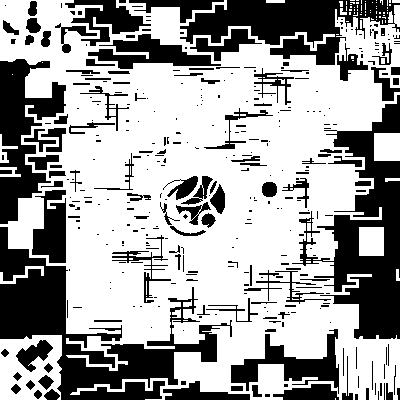
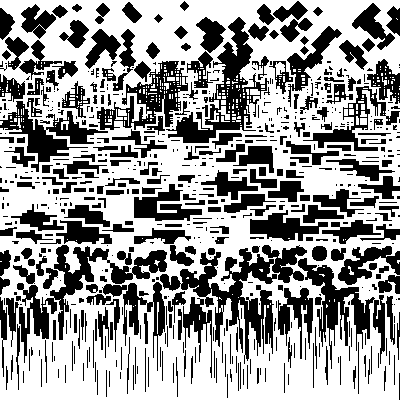
map stratified

diff --git a/map.js b/map.js
@@ -71,6 +71,17 @@ exports.Map.prototype = {
   		}
   	}
 	},
+  randomTerrain2: function randomTerrain2(numb, X, Y, width, height, sizeX, dsizeX, sizeY, dsizeY, colour, dcolour) {
+    var TSize = width*height;
+    var num = Math.floor(TSize/numb);
+    for (var n = 0; n < num; n++) {
+      var PosX = this.Random(X,X+width);
+      var PosY = this.Random(Y,Y+height);
+      var SizeX = this.Random(sizeX, sizeX+dsizeX);
+      var SizeY = this.Random(sizeY, sizeY+dsizeY);
+      this.makeTerrainInBounds2(0, 0, ret, ret, PosX, PosY, SizeX, SizeY, colour, dcolour);
+    }
+  },
   makeTerrain: function makeTerrain(posX, posY, sizeX, sizeY, colourMin, colourMax) {
     for (var z = 0; z < sizeX;z++){
       for (var i = 0; i < sizeY; i++){
@@ -101,6 +112,32 @@ exports.Map.prototype = {
         for (var i = 0; i < SizeY; i++){
           var Colour = Math.floor(Math.random()*(colourMax-colourMin+1)+colourMin);
           this.map[PosX+PosY*ret+z+i*ret] = Colour;
+        }
+      }
+    }
+  },
+  makeTerrainInBounds2: function makeTerrainInBounds2(x, y, width, height, posX, posY, sizeX, sizeY, colour, dcolour) {
+    if ((posX <= x+width)&&(posY <= y+height)&&(posX+sizeX > x)&&(posY+sizeY > y)) {
+      var PosX = posX;
+      var PosY = posY;
+      var SizeX = sizeX;
+      var SizeY = sizeY;
+      if (posX < x) {
+        PosX = x;
+      }
+      if (posY < y) {
+        PosY = y;
+      }
+      if (PosX+sizeX > x+width) {
+        SizeX = x+width-PosX;
+      }
+      if (PosY+sizeY > y+height) {
+        SizeY = y+height-PosY;
+      }
+      for (var j = 0; j < SizeX; j++){
+        for (var i = 0; i < SizeY; i++){
+          var Colour = this.Random(colour,colour+dcolour);
+          this.map[PosX+PosY*ret+j+i*ret] = Colour;
         }
       }
     }
@@ -141,6 +178,23 @@ exports.Map.prototype = {
       }
     }
   },
+  circle2: function circle2(numb, X, Y, width, height, radius, dradius, colour, dcolour) {
+    var TSize = width*height;
+    var num = Math.floor(TSize/numb);
+    for (var n = 0; n < num; n++) {
+      var PosX = this.Random(X,X+width);
+      var PosY = this.Random(Y,Y+height);
+      var Radius = this.Random(radius,radius+dradius);
+      for (var j = 0; j < 2*Radius; j++){
+        for (var i = 0; i < 2*Radius; i++){
+          if(Math.sqrt((j-Radius)*(j-Radius)+(i-Radius)*(i-Radius)) < Radius){
+            var Colour = this.Random(colour,colour+dcolour);
+            this.map[PosX+PosY*ret+j+i*ret] = Colour;
+          }
+        }
+      }
+    }
+  },
   diamond: function diamond(numb, posXMin, posXMax, posYMin, posYMax, sizeXMin, sizeXMax, sizeYMin, sizeYMax, colourMin, colourMax) {
     var TSize = (posXMax - posXMin)*(posYMax - posYMin);
     var num = Math.floor(TSize/numb);
@@ -155,6 +209,25 @@ exports.Map.prototype = {
           if(ecc*Math.abs(z-sizeX/2) + Math.abs(i-sizeY/2) < sizeY/2){
             var colour = this.Random(colourMax,colourMin);
             this.map[PosX+PosY*ret+z+i*ret] = colour;
+          }
+        }
+      }
+    }
+  },
+  diamond2: function diamond2(numb, X, Y, width, height, sizeX, dsizeX, sizeY, dsizeY, colour, dcolour) {
+    var TSize = width*height;
+    var num = Math.floor(TSize/numb);
+    for (var n = 0; n < num; n++) {
+      var PosX = this.Random(X,X+width);
+      var PosY = this.Random(Y,Y+height);
+      var DsizeX = this.Random(sizeX, sizeX+dsizeX);
+      var DsizeY = this.Random(sizeY, sizeY+dsizeY);
+      for (var j = 0; j < DsizeX; j++){
+        for (var i = 0; i < DsizeY; i++){
+          var ecc = DsizeY/DsizeX;
+          if(ecc*Math.abs(j-DsizeX/2) + Math.abs(i-DsizeY/2) < DsizeY/2){
+            var Colour = this.Random(colour,colour+dcolour);
+            this.map[PosX+PosY*ret+j+i*ret] = Colour;
           }
         }
       }
@@ -289,99 +362,6 @@ exports.Map.prototype = {
       var direction = Math.floor(Math.random()*4);
     }
   },
-	randomWorms: function randomWorms(numb, segMin, segMax, posXMin, posXMax, posYMin, posYMax, lengthXMin, lengthXMax, lengthYMin, lengthYMax, thickX, thickY, colourMin, colourMax) {
-	var TSize = (posXMax - posXMin)*(posYMax - posYMin);
-	var num = Math.floor(TSize/numb);
-	for (var j = 0; j < num; j++) {
-		var startX = Math.floor(Math.random()*(posXMax-posXMin+1)+posXMin);
-		var startY = Math.floor(Math.random()*(posYMax-posYMin+1)+posYMin);
-		var seg = Math.floor(Math.random()*(segMax-segMin+1)+segMin);
-		this.worm(seg, posXMin, posXMax, posYMin, posYMax, startX, startY, lengthXMin, lengthXMax, lengthYMin, lengthYMax, thickX, thickY, colourMin, colourMax);
-	}
-  },
-  worm: function worm(seg, posXMin, posXMax, posYMin, posYMax, startX, startY, lengthXMin, lengthXMax, lengthYMin, lengthYMax, thickX, thickY, colourMin, colourMax) {
-  	var posX = startX;
-  	var posY = startY;
-  	var lastD = Math.floor(Math.random()*4);
-  	var bends = 0;
-  	for (var i = 0; i < seg; i++) {
-  		console.log(bends);
-  		var direction = Math.floor(Math.random()*4);
-  		//RIGHT
-  		if (direction === 0) {
-  			//From UP
-  			if (lastD === 3) {
-  				var randLengthX = this.Random(lengthXMin, lengthXMax);
-  				this.makeTerrainInBounds(posXMin, posXMax, posYMin, posYMax, posX, posY, randLengthX, thickY, colourMin, colourMax);
-  				posX = posX + randLengthX;
-  				posY = posY;
-  				lastD = 0;
-  			//From DOWN
-  			} else if (lastD === 1) {
-  				var randLengthX = this.Random(lengthXMin, lengthXMax);
-  				this.makeTerrainInBounds(posXMin, posXMax, posYMin, posYMax, posX+thickX, posY, randLengthX, thickY, colourMin, colourMax);
-  				posX = posX + randLengthX + thickX;
-  				posY = posY;
-  				lastD = 0;
-  			} else {
-  				i--;
-  			}
-  		//UP
-  		} else if (direction === 1) {
-  			//From RIGHT
-  			if (lastD === 0) {
-  				var randLengthY = this.Random(lengthYMin, lengthYMax);
-  				this.makeTerrainInBounds(posXMin, posXMax, posYMin, posYMax, posX-thickX, posY-randLengthY, thickX, randLengthY, colourMin, colourMax);
-  				posX = posX - thickX;
-  				posY = posY - randLengthY;
-  				lastD = 1;
-  			//From LEFT
-  			} else if (lastD === 2) {
-  				var randLengthY = this.Random(lengthYMin, lengthYMax);
-  				this.makeTerrainInBounds(posXMin, posXMax, posYMin, posYMax, posX, posY-randLengthY, thickX, randLengthY, colourMin, colourMax);
-  				posX = posX;
-  				posY = posY - randLengthY;
-  				lastD = 1;
-  			} else {
-  				i--;
-  			}
-  		//LEFT
-  		} else if (direction === 2) {
-  			if (lastD === 1) {
-  				var randLengthX = this.Random(lengthXMin, lengthXMax);
-  				this.makeTerrainInBounds(posXMin, posXMax, posYMin, posYMax, posX-randLengthX, posY, randLengthX, thickY, colourMin, colourMax);
-  				posX = posX - randLengthX;
-  				posY = posY;
-  				lastD = 2;
-  			} else if (lastD === 3) {
-  				var randLengthX = this.Random(lengthXMin, lengthXMax);
-  				this.makeTerrainInBounds(posXMin, posXMax, posYMin, posYMax, posX-randLengthX+thickX, posY, randLengthX, thickY, colourMin, colourMax);
-  				posX = posX - randLengthX + thickX;
-  				posY = posY;
-  				lastD = 2;
-  			} else {
-  				i--;
-  			}
-  		//DOWN
-  		} else {
-  			if (lastD === 0) {
-  				var randLengthY = this.Random(lengthYMin, lengthYMax);
-  				this.makeTerrainInBounds(posXMin, posXMax, posYMin, posYMax, posX, posY, thickX, randLengthY, colourMin, colourMax);
-  				posX = posX;
-  				posY = posY + randLengthY;
-  				lastD = 3;
-  			} else if (lastD === 2) {
-  				var randLengthY = this.Random(lengthYMin, lengthYMax);
-  				this.makeTerrainInBounds(posXMin, posXMax, posYMin, posYMax, posX-thickX, posY, thickX, randLengthY, colourMin, colourMax);
-  				posX = posX - thickX;
-  				posY = posY + randLengthY;
-  				lastD = 3;
-  			} else {
-  				i--;
-  			}
-  		}
-  	}
-  },
   colouring: function colouring(prob, posXMin, posXMax, posYMin, posYMax, colourMin, colourMax) {
     for (var x = posXMin; x < posXMax+1;x++) {
       for (var y = posYMin; y < posYMax; y++) {
@@ -396,6 +376,116 @@ exports.Map.prototype = {
   Random: function Random(rndMin, rndMax) {
     var x = Math.floor(Math.random()*(rndMax-rndMin+1)+rndMin);
     return x;
+  },
+  WindPalace: function WindPalace(x, y, width, height, overlap) {
+    // Wind Palace
+    //Make Space
+    this.makeTerrain(x, y, width, height, 0, 0);
+    //Borders
+    this.diamond2(800, x-overlap, y-overlap, width+2*overlap, 2*overlap, 17, 6, 17, 6, 0, 0);
+    this.diamond2(800, x-overlap, y-overlap, width+2*overlap, 2*overlap, 14, 3, 14, 3, 0, 0);
+    this.diamond2(800, x-overlap, y-overlap, width+2*overlap, 2*overlap, 9, 2, 9, 2, 0, 0);
+
+    this.diamond2(800, x-overlap, y+height-overlap, width+2*overlap, 2*overlap, 17, 6, 17, 6, 0, 0);
+    this.diamond2(800, x-overlap, y+height-overlap, width+2*overlap, 2*overlap, 14, 3, 14, 3, 0, 0);
+    this.diamond2(800, x-overlap, y+height-overlap, width+2*overlap, 2*overlap, 9, 2, 9, 2, 0, 0);
+
+    this.diamond2(800, x+width-overlap, y-overlap, 2*overlap, height+2*overlap, 17, 6, 17, 6, 0, 0);
+    this.diamond2(800, x+width-overlap, y-overlap, 2*overlap, height+2*overlap, 14, 3, 14, 3, 0, 0);
+    this.diamond2(800, x+width-overlap, y-overlap, 2*overlap, height+2*overlap, 9, 2, 9, 2, 0, 0);
+
+    this.diamond2(800, x-overlap, y-overlap, 2*overlap, height+2*overlap, 17, 6, 17, 6, 0, 0);
+    this.diamond2(800, x-overlap, y-overlap, 2*overlap, height+2*overlap, 14, 3, 14, 3, 0, 0);
+    this.diamond2(800, x-overlap, y-overlap, 2*overlap, height+2*overlap, 9, 2, 9, 2, 0, 0);
+
+    //Wind Palace Terrain
+    this.diamond2(1800, x, y, width, height, 17, 6, 17, 6, 122, 4);
+    this.diamond2(1200, x, y, width, height, 14, 3, 14, 3, 122, 4);
+    this.diamond2(800, x, y, width, height, 9, 2, 9, 2, 122, 4);
+    this.diamond2(1800, x, y, width, height, 17, 6, 17, 6, 122, 4);
+    this.diamond2(1200, x, y, width, height, 14, 3, 14, 3, 122, 4);
+    this.diamond2(800, x, y, width, height, 9, 2, 9, 2, 122, 4);
+  },
+  Jungle: function Jungle(x, y, width, height, overlap) {
+    // Jungle
+    //Make Space
+    this.makeTerrain(x, y, width, height, 0, 0);
+    //Jungle Terrain
+    this.randomSnakes(300, 0, 15, 30, x-overlap, x+width+overlap, y-overlap, y+height+overlap, 3, 12, 4, 16, 1, 1, 31, 34);
+    this.randomSnakes(300, 30, 15, 30, x-overlap, x+width+overlap, y-overlap, y+height+overlap, 3, 12, 4, 16, 2, 1, 31, 34);
+    this.randomSnakes(1000, 0, 15, 30, x-overlap, x+width+overlap, y-overlap, y+height+overlap, 3, 12, 4, 16, 2, 2, 0, 0);
+    this.randomSnakes(1500, 0, 15, 30, x-overlap, x+width+overlap, y-overlap, y+height+overlap, 3, 12, 4, 16, 3, 3, 0, 0);
+  },
+  Bedrock: function Bedrock(x, y, width, height, overlap) {
+    //Bedrock
+    //Make Space
+    this.makeTerrain(x, y, width, height, 0, 0);
+    //Bedrock Terrain
+    this.makeTerrain(x,y,width,height,132,136);
+    this.randomTerrain(3250, x-overlap, x+width+overlap, y-overlap, y+width+overlap, 14, 32, 14, 32, 0, 0);
+    //Underground Passages
+    this.randomSnakes(1100, 0, 25, 50, x-overlap, x+width+overlap, y-overlap, y+height+overlap, 6, 24, 4, 10, 3, 3, 0, 0);
+    this.randomSnakes(7500, 0, 5, 10, x-overlap, x+width+overlap, y-overlap, y+height+overlap, 30, 40, 4, 10, 3, 3, 0, 0);
+  },
+  FireKingdom: function FireKingdom(x, y, width, height, overlap) {
+    //Fire Kingdom
+    //Make Space
+    this.makeTerrain(x, y, width, height, 0, 0);
+    //Borders
+    this.circle2(300, x-overlap, y-overlap, width+2*overlap, 2*overlap, 7, 6, 0, 0);
+    this.circle2(200, x-overlap, y-overlap, width+2*overlap, 2*overlap, 4, 5, 0, 0);
+    this.circle2(200, x-overlap, y-overlap, width+2*overlap, 2*overlap, 3, 2, 0, 0);
+    this.circle2(50, x-overlap, y-overlap, width+2*overlap, 2*overlap,  1, 1, 0, 0);
+
+    this.circle2(300, x-overlap, y+height-overlap, width+2*overlap, 2*overlap, 7, 6, 0, 0);
+    this.circle2(200, x-overlap, y+height-overlap, width+2*overlap, 2*overlap, 4, 5, 0, 0);
+    this.circle2(200, x-overlap, y+height-overlap, width+2*overlap, 2*overlap, 3, 2, 0, 0);
+    this.circle2(50, x-overlap, y+height-overlap, width+2*overlap, 2*overlap,  1, 1, 0, 0);
+    
+    this.circle2(300, x+width-overlap, y-overlap, 2*overlap, height+2*overlap, 7, 6, 0, 0);
+    this.circle2(200, x+width-overlap, y-overlap, 2*overlap, height+2*overlap, 4, 5, 0, 0);
+    this.circle2(200, x+width-overlap, y-overlap, 2*overlap, height+2*overlap, 3, 2, 0, 0);
+    this.circle2(50, x+width-overlap, y-overlap, 2*overlap, height+2*overlap,  1, 1, 0, 0);
+
+    this.circle2(300, x-overlap, y-overlap, 2*overlap, height+2*overlap, 7, 6, 0, 0);
+    this.circle2(200, x-overlap, y-overlap, 2*overlap, height+2*overlap, 4, 5, 0, 0);
+    this.circle2(200, x-overlap, y-overlap, 2*overlap, height+2*overlap, 3, 2, 0, 0);
+    this.circle2(50, x-overlap, y-overlap, 2*overlap, height+2*overlap,  1, 1, 0, 0);
+    //Fire Terrain
+    this.circle2(2500, x, y, width, height, 2, 6, 1, 3);
+    this.circle2(750, x, y, width, height, 4, 3, 1, 3);
+    this.circle2(175, x, y, width, height, 2, 3, 1, 3);
+
+    this.circle2(2500, x, y, width, height, 6, 2, 0, 0);
+    this.circle2(1500, x, y, width, height, 4, 3, 0, 0);
+    this.circle2(1150, x, y, width, height, 2, 3, 0, 0);
+
+    this.circle2(55, x, y, width, height, 1, 4, 1, 3);
+  },
+  IceKingdom: function IceKingdom(x, y, width, height, overlap) {
+    //Ice Kingdom
+    //Make Space
+    this.makeTerrain(x, y, width, height, 0, 0);
+    //Borders
+    this.randomTerrain2(100, x-overlap, y-overlap, width+2*overlap, 2*overlap, 2, 1, 5, 25, 0, 0);
+    this.randomTerrain2(50, x-overlap, y-overlap, width+2*overlap, 2*overlap, 1, 0, 5, 25, 0, 0);
+
+    this.randomTerrain2(100, x-overlap, y+height-overlap, width+2*overlap, 2*overlap,  2, 1, 5, 25, 0, 0);
+    this.randomTerrain2(50, x-overlap, y+height-overlap, width+2*overlap, 2*overlap, 1, 0, 5, 25, 0, 0);
+
+    this.randomTerrain2(100, x+width-overlap, y-overlap, 2*overlap, height+2*overlap,  2, 1, 5, 25, 0, 0);
+    this.randomTerrain2(50, x+width-overlap, y-overlap, 2*overlap, height+2*overlap, 1, 0, 5, 25, 0, 0);
+
+    this.randomTerrain2(100, x-overlap, y-overlap, 2*overlap, height+2*overlap,  2, 1, 5, 25, 0, 0);
+    this.randomTerrain2(50, x-overlap, y-overlap, 2*overlap, height+2*overlap, 1, 0, 5, 25, 0, 0);
+    //Ice Terrain
+    var Iceheight = Math.floor(height/7)+1;
+    this.randomTerrain2(50, x-overlap, y-overlap, width+overlap, Iceheight+overlap, 3, 1, 5, 25, 59, 4);
+    this.randomTerrain2(150, x-overlap, y+Iceheight, width+overlap, Iceheight, 2, 1, 5, 25, 59, 4);
+    this.randomTerrain2(250, x-overlap, y+2*Iceheight, width+overlap, Iceheight, 1, 1, 5, 25, 59, 4);
+    this.randomTerrain2(100, x-overlap, y-overlap, width+2*overlap, height+2*overlap, 1, 0, 5, 25, 59, 4);
+    //this.randomTerrain2(50, x-overlap, y-overlap, width+overlap, height+overlap, 3, 1, 5, 25, 0, 0);
+    //randomTerrain2(numb, X, Y, width, height, sizeX, dsizeX, sizeY, dsizeY, colour, dcolour)
   },
 	generate: function generate(size) {
   	this.clear();
@@ -417,15 +507,15 @@ exports.Map.prototype = {
       var HalfInner = Math.floor(Inner/2);
       var StepInner = HalfInner + Math.floor(HalfInner/4);
       var Realms = Math.floor(size/6.5);
-      var Overlap = Math.floor(size/100);
+      var Overlap = 8;//Math.floor(size/100);
       var Center = Math.floor(size/2);
       var IceHeight = Math.floor(Realms/7);
     //Build Terrain
-    // Bedrock
+    /*Bedrock
       this.makeTerrain(0,0,size,size,132,136);
       this.randomTerrain(3750, 0, size, 0, size, 24, 32, 24, 32, 0, 0);
       this.makeTerrain(Outer, Outer, size-2*Outer, size-2*Outer, 0, 0);
-    // Center Part of the Map
+    //Center Part of the Map
       //Ladders
       this.randomTerrain(750, Outer, size-Outer, Outer, size-Outer, 1, 2, 24, 32, 13, 16);
       //Terrain
@@ -434,7 +524,7 @@ exports.Map.prototype = {
       this.randomTerrain(700,Outer, size-Outer, Outer , size-Outer, 1, 10, 1, 1, 122, 136);
       this.randomTerrain(2500,Outer-Overlap, size-Outer+Overlap, Outer-Overlap, size-Outer+Overlap, 30, 50, 30, 50, 0, 0); //Large Voids
       this.randomTerrain(1000,Outer, size-Outer, Outer , size-Outer, 1, 2, 1, 1, 122, 136);
-    // Underground Passages
+    //Underground Passages
       this.randomSnakes(2500, 0, 25, 50, Realms-Overlap, size-Realms+Overlap, 0, Outer+Overlap, 6, 24, 4, 10, 3, 3, 0, 0);
       this.randomSnakes(2500, 0, 25, 50, 0, Outer+Overlap, Realms-Overlap, size-Realms+Overlap, 6, 24, 4, 10, 3, 3, 0, 0);
       this.randomSnakes(2500, 0, 25, 50, Realms-Overlap, size-Realms+Overlap, size-Outer+Overlap, size, 6, 24, 4, 10, 3, 3, 0, 0);
@@ -443,12 +533,12 @@ exports.Map.prototype = {
       this.randomSnakes(12500, 0, 5, 10, 0, Outer+Overlap, Realms-Overlap, size-Realms+Overlap, 30, 40, 4, 10, 3, 3, 0, 0);
       this.randomSnakes(12500, 0, 5, 10, Realms-Overlap, size-Realms+Overlap, size-Outer+Overlap, size, 30, 40, 4, 10, 3, 3, 0, 0);
       this.randomSnakes(12500, 0, 5, 10, size-Outer-Overlap, size, Realms-Overlap, size-Realms+Overlap, 30, 40, 4, 10, 3, 3, 0, 0);
-    // The Very Center
+    //The Very Center
       this.ring(Center, Center, Center, Center, Inner, Inner, 0, 0);
       this.ring(Center, Center, Center, Center, HalfInner, HalfInner, 40, 45);
       this.randomRings(600, Center-HalfInner, Center+HalfInner, Center-HalfInner, Center+HalfInner, 7, 28, 1, 4, 40, 45);
       this.randomRings(500, Center-StepInner, Center+StepInner, Center-StepInner, Center+StepInner, 6, 38, 1, 4, 0, 0);
-    // Fire Kingdom
+    //Fire Kingdom
       //Make Space
       this.makeTerrain(0, 0, Realms, Realms, 0, 0);
       //Borders
@@ -484,6 +574,7 @@ exports.Map.prototype = {
       this.randomTerrain(250, size-Realms-Overlap, size , size-3*IceHeight , size-2*IceHeight, 2, 2, 5, 30, 59, 63);
       this.randomTerrain(200, size-Realms-Overlap, size , size-Realms-Overlap, size, 1, 1, 5, 30, 59, 63);
       this.randomTerrain(50, size-Realms-Overlap, size , size-Realms-Overlap , size-Realms-Overlap+IceHeight, 1, 3, 5, 30, 0, 0);
+
     // Wind Palace
       //Make Space
       this.makeTerrain(0, size-Realms, Realms, Realms, 0, 0);
@@ -501,15 +592,25 @@ exports.Map.prototype = {
       this.diamond(800, 0, Realms+Overlap, size-Realms-Overlap, size, 9, 11, 9, 11, 122, 126);
       this.diamond(1800, 0, Realms+Overlap, size-Realms-Overlap, size, 17, 23, 17, 23, 122, 126);
       this.diamond(1200, 0, Realms+Overlap, size-Realms-Overlap, size, 14, 17, 14, 17, 122, 126);
-      this.diamond(800, 0, Realms+Overlap, size-Realms-Overlap, size, 9, 11, 9, 11, 122, 126);
-    // Jungle
+      this.diamond(800, 0, Realms+Overlap, size-Realms-Overlap, size, 9, 11, 9, 11, 122, 126); */
+    //Ninth Circle (It's cold there!)
+    //Bedrock
+      this.Bedrock(0, 2*Realms, size, 2*Realms, Overlap);
+    //Hell
+      this.FireKingdom(0, 4*Realms, size, Realms, Overlap);
+    //Forest
+      this.Jungle(0, Realms, size, Realms, Overlap);
+    //Cloud Palace
+      this.WindPalace(0, 0, size, Realms, Overlap);
+      this.IceKingdom(0, 5*Realms, size, Realms, Overlap);
+    /* Jungle
       //Make Space
       this.makeTerrain(size-Realms, 0, Realms, Realms, 0, 0);
       //Jungle Terrain
       this.randomSnakes(300, 0, 15, 30, size-Realms-Overlap, size, 0, Realms+Overlap, 3, 12, 4, 16, 1, 1, 31, 34);
-      this.randomWorms(300, 15, 30, size-Realms-Overlap, size, 0, Realms+Overlap, 3, 12, 4, 16, 2, 1, 31, 34);
+      this.randomSnakes(300, 30, 15, 30, size-Realms-Overlap, size, 0, Realms+Overlap, 3, 12, 4, 16, 2, 1, 31, 34);
       this.randomSnakes(1000, 0, 15, 30, size-Realms-Overlap, size, 0, Realms+Overlap, 3, 12, 4, 16, 2, 2, 0, 0);
-      this.randomSnakes(1500, 0, 15, 30, size-Realms-Overlap, size, 0, Realms+Overlap, 3, 12, 4, 16, 3, 3, 0, 0);
+      this.randomSnakes(1500, 0, 15, 30, size-Realms-Overlap, size, 0, Realms+Overlap, 3, 12, 4, 16, 3, 3, 0, 0); */
     //Portal Spawn
     	this.portal(0,size-24 ,0,size-24,24,24,8, 13, 16);
     }
